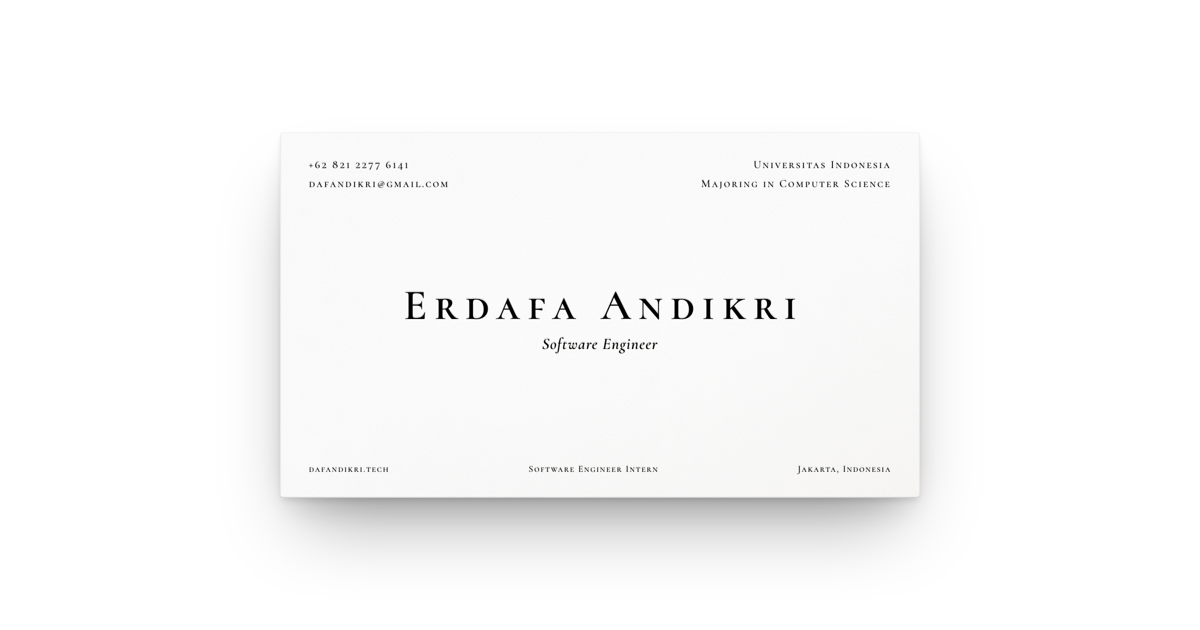
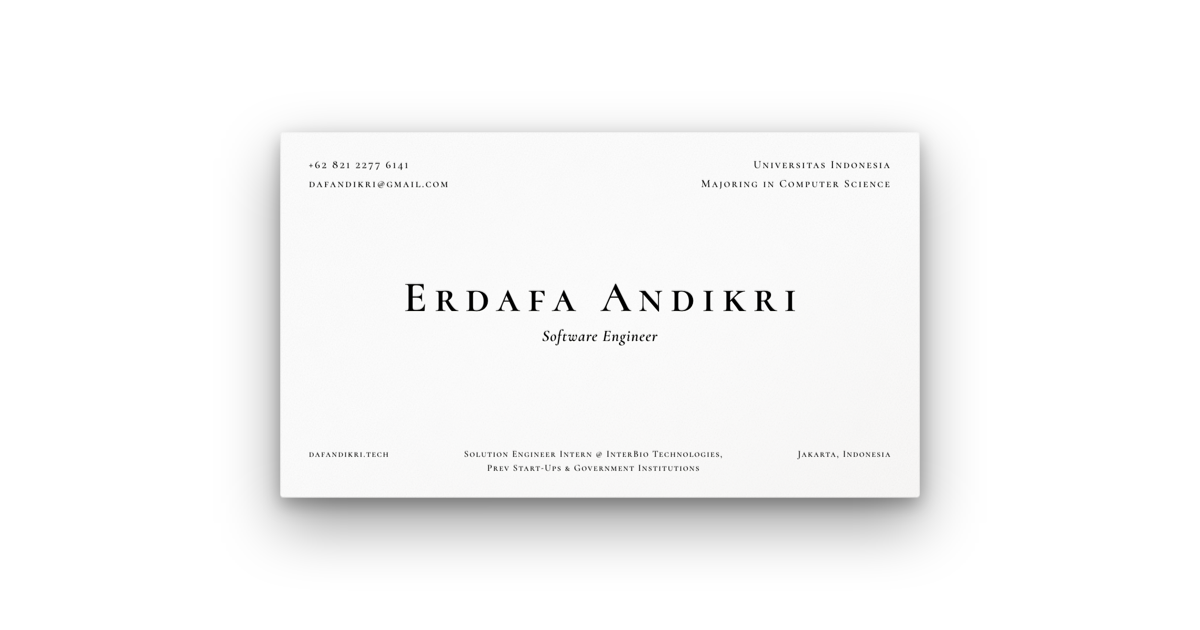
fix(card): cast the shadow as geometry so it projects with the card
The previous fix was a symptom fix. It made the shadow's offsets track
the tilt, which changed its position while leaving its shape wrong, so
it still read as flat.

box-shadow is painted from the border box of whichever element carries
it, and a border box is always axis-aligned — the wrapper's computed
transform was literally matrix(1,0,0,1,0,0). So the shadow was a
rectangle by construction, no matter what offsets it was given, while
the card projects to a trapezoid. Depth is judged by comparing the two
silhouettes, and rectangle-under-trapezoid reads as a sticker sliding
beneath a card. No offset could have fixed that.

The shadow is now real geometry: two planes carrying the same --rx/--ry
as the card, inside the same perspective, offset in Z and Y and blurred.
Sharing the transform is what makes their projections skew and
foreshorten exactly as the card's does. The two planes sit at different
depths so their projections diverge as the card turns, and that parallax
is the depth cue the stacked box-shadows were faking.

shadowFromTilt and the --sx/--sy plumbing are gone. Once the planes
derive placement from the rotation itself, a separate offset calculation
double-counts the same rotation — two mechanisms fighting over one
effect. A test now asserts the shadow is two or more planes that are
siblings of .card, so reverting to box-shadow fails loudly.

Verified at an exaggerated tilt, which is what exposed the original bug:
[…]

diff --git a/src/components/BusinessCard.css b/src/components/BusinessCard.css
@@ -29,29 +29,46 @@
   border-radius: 3px;
   transform-style: preserve-3d;
   animation: card-drop 1000ms cubic-bezier(0.3, 1.22, 0.5, 1) both;
-  /*
-   * The cast shadow. It lives here, on the element that never rotates, and is
-   * displaced by --sx/--sy which the tilt hook derives from the card's
-   * rotation. Painting it on the rotating card instead would tumble it through
-   * 3D as if glued to the card's back; a real shadow stays flat on the surface
-   * below and only slides.
-   *
-   * Three layers rather than one — a wide ambient pool, a mid falloff, and a
-   * tight contact shadow. Against white a single heavy shadow reads as grime,
-   * so the depth comes from stacking soft, low-opacity layers. Each layer
-   * slides by a different amount, and that parallax between them is most of
-   * what sells the card as a thing sitting above a surface.
-   */
-  box-shadow:
-    calc(var(--sx, 0px) * 1.7) calc(2.75rem + var(--sy, 0px) * 1.7) 4.5rem -1.4rem rgba(0, 0, 0, 0.34),
-    calc(var(--sx, 0px) * 0.85) calc(1.1rem + var(--sy, 0px) * 0.85) 2rem -0.7rem rgba(0, 0, 0, 0.18),
-    calc(var(--sx, 0px) * 0.3) calc(0.2rem + var(--sy, 0px) * 0.3) 0.5rem -0.1rem rgba(0, 0, 0, 0.13);
 }
 
 /*
- * The entrance animates transform and opacity only. It deliberately does not
- * touch box-shadow: `fill-mode: both` would pin the shadow at the keyframe's
- * value and permanently override the tilt-driven one above.
+ * The cast shadow, as real geometry rather than as a paint effect.
+ *
+ * box-shadow cannot do this job. It is painted from the border box of whatever
+ * element carries it, and that box is always an axis-aligned rectangle — so a
+ * box-shadow stays a rectangle no matter how the card is rotated, while the
+ * card itself projects to a trapezoid. The eye reads 3D by comparing the two
+ * silhouettes, and rectangle-under-trapezoid reads as a sticker sliding around
+ * beneath a card. Offsetting it does not help; the problem is the shape.
+ *
+ * So the shadow is a plane carrying the *same* rotation as the card, inside
+ * the same perspective, pushed back in Z and down in Y. Sharing the transform
+ * is what makes its projection skew and foreshorten exactly as the card's
+ * does. Two planes at different depths give the soft/tight falloff that the
+ * old stacked box-shadows provided, and because they sit at different Z their
+ * projections diverge as the card turns — that parallax is the depth cue.
+ */
+.card-shadow {
+  position: absolute;
+  inset: 0;
+  border-radius: inherit;
+  pointer-events: none;
+  background: rgba(0, 0, 0, 0.4);
+  transform: translate3d(0, 1.6rem, -90px) rotateX(var(--rx, 0deg)) rotateY(var(--ry, 0deg));
+  filter: blur(30px);
+  will-change: transform;
+}
+
+/* The near, tighter contact shadow. */
+.card-shadow--contact {
+  background: rgba(0, 0, 0, 0.3);
+  transform: translate3d(0, 0.45rem, -22px) rotateX(var(--rx, 0deg)) rotateY(var(--ry, 0deg));
+  filter: blur(9px);
+}
+
+/*
+ * The entrance animates transform and opacity only, so it cannot fight the
+ * tilt-driven transforms on the shadow planes above.
  */
 @keyframes card-drop {
   0% {
@@ -242,7 +259,30 @@
 .card__footer .card__meta {
   font-size: 0.84em;
   letter-spacing: 0.1em;
+  line-height: 1.5;
+  /*
+   * The middle field carries a full sentence, too long for one line at card
+   * width. `balance` splits it into even lines instead of leaving a long line
+   * over a stub; the short outer fields fit on one line and so never wrap.
+   */
+  text-wrap: balance;
+  text-align: center;
+}
+
+/* The outer fields are short enough to hold one line, and flex would otherwise
+   squeeze them into breaking too. */
+.card__footer .card__meta:first-child,
+.card__footer .card__meta:last-child {
   white-space: nowrap;
+  flex-shrink: 0;
+}
+
+.card__footer .card__meta:first-child {
+  text-align: left;
+}
+
+.card__footer .card__meta:last-child {
+  text-align: right;
 }
 
 /* ---------------------------------------------------------------------------
@@ -360,16 +400,14 @@ a.card__meta:focus-visible {
     opacity: 1;
     transform: none;
   }
+  /* The shadow planes need no special case: with no tilt they sit squarely
+     behind the card, which is exactly the resting appearance. */
   @keyframes card-settle {
     from {
       opacity: 0;
     }
     to {
       opacity: 1;
-      box-shadow:
-        0 2.75rem 4.5rem -1.4rem rgba(0, 0, 0, 0.34),
-        0 1.1rem 2rem -0.7rem rgba(0, 0, 0, 0.18),
-        0 0.2rem 0.5rem -0.1rem rgba(0, 0, 0, 0.13);
     }
   }
 }

diff --git a/src/hooks/useCardTilt.ts b/src/hooks/useCardTilt.ts
@@ -75,27 +75,11 @@ export function specularFromTilt({ rx, ry }: Tilt): { mx: number; my: number } {
   }
 }
 
-/** How far the cast shadow slides, in px, at maximum tilt. */
-export const SHADOW_SHIFT_PX = 16
-
-/**
- * Where the cast shadow falls, in px, given the card's rotation.
- *
- * The shadow cannot simply ride along with the card: a box-shadow is painted in
- * its element's local space, so putting it on the rotating element would tumble
- * it through 3D as though glued to the card's back. A real cast shadow stays
- * flat on the surface underneath and only slides and stretches. So it lives on
- * the non-rotating wrapper and is displaced from here instead.
- *
- * Lifting an edge toward the viewer pushes the shadow away from that edge:
- * raise the top and the shadow slides down, raise the right and it slides left.
+/*
+ * There is deliberately no shadow-offset maths here. The cast shadow is a pair
+ * of real planes that carry --rx/--ry themselves, so the 3D projection places
+ * them; computing a separate offset would double-count the same rotation.
  */
-export function shadowFromTilt({ rx, ry }: Tilt): { sx: number; sy: number } {
-  return {
-    sx: (ry / MAX_TILT_DEG) * SHADOW_SHIFT_PX,
-    sy: (-rx / MAX_TILT_DEG) * SHADOW_SHIFT_PX,
-  }
-}
 
 /**
  * Drives the card's 3D tilt.
@@ -105,10 +89,9 @@ export function shadowFromTilt({ rx, ry }: Tilt): { sx: number; sy: number } {
  * through state would re-render the component on every mouse event, whereas
  * this way React renders once and the compositor does the rest.
  *
- * Attach this to the card's *wrapper*, not the rotating card itself. Custom
- * properties only inherit downward, and the cast shadow sits on the wrapper
- * (it must not rotate) while the rotation sits on the child — so the values
- * have to be written above both of them for either to read them.
+ * Attach this to the card's *wrapper*, not the card itself. Custom properties
+ * only inherit downward, and both the card and its cast-shadow planes are
+ * siblings that need --rx/--ry, so the values have to be written above them.
  *
  * Under prefers-reduced-motion the hook attaches no listener and starts no
  * loop, so the card simply sits still.
@@ -141,13 +124,10 @@ export function useCardTilt<T extends HTMLElement>() {
       current.rx += (target.rx - current.rx) * FOLLOW
       current.ry += (target.ry - current.ry) * FOLLOW
       const { mx, my } = specularFromTilt(current)
-      const { sx, sy } = shadowFromTilt(current)
       el.style.setProperty('--rx', `${current.rx.toFixed(3)}deg`)
       el.style.setProperty('--ry', `${current.ry.toFixed(3)}deg`)
       el.style.setProperty('--mx', `${(mx * 100).toFixed(2)}%`)
       el.style.setProperty('--my', `${(my * 100).toFixed(2)}%`)
-      el.style.setProperty('--sx', `${sx.toFixed(2)}px`)
-      el.style.setProperty('--sy', `${sy.toFixed(2)}px`)
       frame = requestAnimationFrame(tick)
     }
     frame = requestAnimationFrame(tick)

diff --git a/src/components/BusinessCard.test.tsx b/src/components/BusinessCard.test.tsx
@@ -87,24 +87,26 @@ describe('BusinessCard', () => {
     // the component would re-render on every pointer move.
     expect(wrapper!.style.getPropertyValue('--rx')).toMatch(/deg$/)
     expect(wrapper!.style.getPropertyValue('--mx')).toMatch(/%$/)
-    expect(wrapper!.style.getPropertyValue('--sx')).toMatch(/px$/)
   })
 
-  it('writes the tilt above both the shadow and the rotation', async () => {
+  it('casts the shadow with real planes, not a box-shadow', async () => {
     const { container } = render(<BusinessCard />)
-    const wrapper = container.querySelector<HTMLElement>('.card-drop')
-
-    await nextFrame()
-    await nextFrame()
+    const wrapper = container.querySelector<HTMLElement>('.card-drop')!
+    const planes = container.querySelectorAll('.card-shadow')
 
     /*
-     * The cast shadow sits on .card-drop and the rotation on .card. Custom
-     * properties only inherit downward, so writing them to .card would leave
-     * the shadow unable to read them — which is the bug where the card tilted
-     * and its shadow stayed put.
+     * A box-shadow is painted from an axis-aligned border box, so it stays a
+     * rectangle however the card is rotated, while the card projects to a
+     * trapezoid. That silhouette mismatch is what made the shadow read as flat.
+     * The shadow must therefore be geometry that shares the card's rotation.
      */
-    expect(wrapper!.contains(container.querySelector('.card'))).toBe(true)
-    expect(container.querySelector<HTMLElement>('.card')!.style.getPropertyValue('--rx')).toBe('')
+    expect(planes.length).toBeGreaterThanOrEqual(2)
+    for (const plane of planes) {
+      expect(plane).toHaveAttribute('aria-hidden', 'true')
+      // Siblings of .card, so they inherit --rx/--ry from the same wrapper.
+      expect(plane.parentElement).toBe(wrapper)
+    }
+    expect(container.querySelector('.card')!.parentElement).toBe(wrapper)
   })
 
   it('leaves the card completely still under prefers-reduced-motion', async () => {
@@ -118,6 +120,6 @@ describe('BusinessCard', () => {
     // No loop started, so nothing was ever written.
     expect(wrapper!.style.getPropertyValue('--rx')).toBe('')
     expect(wrapper!.style.getPropertyValue('--mx')).toBe('')
-    expect(wrapper!.style.getPropertyValue('--sx')).toBe('')
+
   })
 })

diff --git a/src/hooks/useCardTilt.test.ts b/src/hooks/useCardTilt.test.ts
@@ -3,11 +3,9 @@ import {
   pointerToTilt,
   idleTilt,
   specularFromTilt,
-  shadowFromTilt,
   MAX_TILT_DEG,
   IDLE_TILT_DEG,
   IDLE_PERIOD_MS,
-  SHADOW_SHIFT_PX,
 } from './useCardTilt'
 
 /**
@@ -97,31 +95,3 @@ describe('specularFromTilt', () => {
     expect(my).toBeLessThanOrEqual(1)
   })
 })
-
-describe('shadowFromTilt', () => {
-  it('sits centred when the card lies flat', () => {
-    expect(shadowFromTilt({ rx: 0, ry: 0 })).toEqual({ sx: 0, sy: -0 })
-  })
-
-  it('pushes the shadow away from whichever edge lifts', () => {
-    // Raising the top edge (negative rx) should slide the shadow downward.
-    expect(shadowFromTilt({ rx: -MAX_TILT_DEG, ry: 0 }).sy).toBeCloseTo(SHADOW_SHIFT_PX)
-    expect(shadowFromTilt({ rx: MAX_TILT_DEG, ry: 0 }).sy).toBeCloseTo(-SHADOW_SHIFT_PX)
-    // Raising the right edge (negative ry) should slide the shadow left.
-    expect(shadowFromTilt({ rx: 0, ry: -MAX_TILT_DEG }).sx).toBeCloseTo(-SHADOW_SHIFT_PX)
-    expect(shadowFromTilt({ rx: 0, ry: MAX_TILT_DEG }).sx).toBeCloseTo(SHADOW_SHIFT_PX)
-  })
-
-  it('moves opposite the highlight, as a light source from one side requires', () => {
-    // Pointer upper-right: the highlight rides up-right while the shadow, cast
-    // by the same light, must fall down-left.
-    const tilt = pointerToTilt(90, 10, BOX)
-    const { mx, my } = specularFromTilt(tilt)
-    const { sx, sy } = shadowFromTilt(tilt)
-    expect(mx).toBeGreaterThan(0.5)
-    expect(sx).toBeLessThan(0)
-    expect(my).toBeLessThan(0.5)
-    expect(sy).toBeGreaterThan(0)
-  })
-})
-

diff --git a/src/components/BusinessCard.tsx b/src/components/BusinessCard.tsx
@@ -32,6 +32,14 @@ export default function BusinessCard() {
   return (
     <div className="stage">
       <div className="card-drop" ref={tiltRef}>
+        {/*
+          Cast shadow planes. They share the card's rotation so their
+          projections skew with it — a box-shadow could not, being painted from
+          an axis-aligned border box.
+        */}
+        <div className="card-shadow" aria-hidden="true" />
+        <div className="card-shadow card-shadow--contact" aria-hidden="true" />
+
         <article className="card">
           {/* Paper fibre and moving light. Decorative, so hidden from AT. */}
           <div className="card__grain" aria-hidden="true" />

diff --git a/src/data/card.ts b/src/data/card.ts
@@ -29,7 +29,10 @@ export const card: Card = {
 
   footer: [
     { label: 'dafandikri.tech', href: 'https://dafandikri.tech' },
-    { label: 'Software Engineer Intern', href: null },
+    {
+      label: 'Solution Engineer Intern @ InterBio Technologies, Prev Start-Ups & Government Institutions',
+      href: null,
+    },
     { label: 'Jakarta, Indonesia', href: null },
   ],
 }

diff --git a/docs/superpowers/specs/2026-08-01-business-card-redesign-design.md b/docs/superpowers/specs/2026-08-01-business-card-redesign-design.md
@@ -108,9 +108,29 @@ over the top and both darkens and greys the result. They are input values, not
 finished ones — read the rendered card, not the hex.
 
 Shadows had to be fully retuned for the white ground. Values that read as depth
-against a dark backdrop read as *grime* against white, so the card sits on three
-stacked layers — a wide ambient pool, a mid falloff, and a tight contact shadow —
-all at low opacity, rather than one heavy shadow.
+against a dark backdrop read as *grime* against white, so the depth comes from
+soft, low-opacity layers rather than one heavy shadow.
+
+**The cast shadow is geometry, not a `box-shadow`.** This took two attempts to get
+right, and the first was a symptom fix worth recording.
+
+`box-shadow` is painted from the *border box* of whichever element carries it, and
+a border box is always an axis-aligned rectangle. So a `box-shadow` stays a
+rectangle however the card is rotated, while the card itself projects to a
+trapezoid. The eye judges depth by comparing the shadow's silhouette against the
+object's, and rectangle-under-trapezoid reads as a sticker sliding beneath a card.
+Offsetting the shadow to track the tilt — the first attempt — changed its
+*position* while leaving its *shape* wrong, so it still read as flat.
+
+The fix is a pair of shadow planes that carry the same `--rx`/`--ry` as the card,
+inside the same perspective, offset in Z and Y and blurred. Sharing the transform
+is what makes their projections skew and foreshorten exactly as the card's does,
+and because the two planes sit at different depths their projections diverge as
+the card turns — that parallax is the depth cue.
+
+Because the planes derive their own placement from the rotation, there is no
+separate shadow-offset calculation; adding one would double-count the same
+rotation.
 
 **Deboss.** Two `text-shadow`s per glyph — light below-right, dark above-left. This
 is the inverse of a conventional emboss and is what reads as *pressed into* paper.
